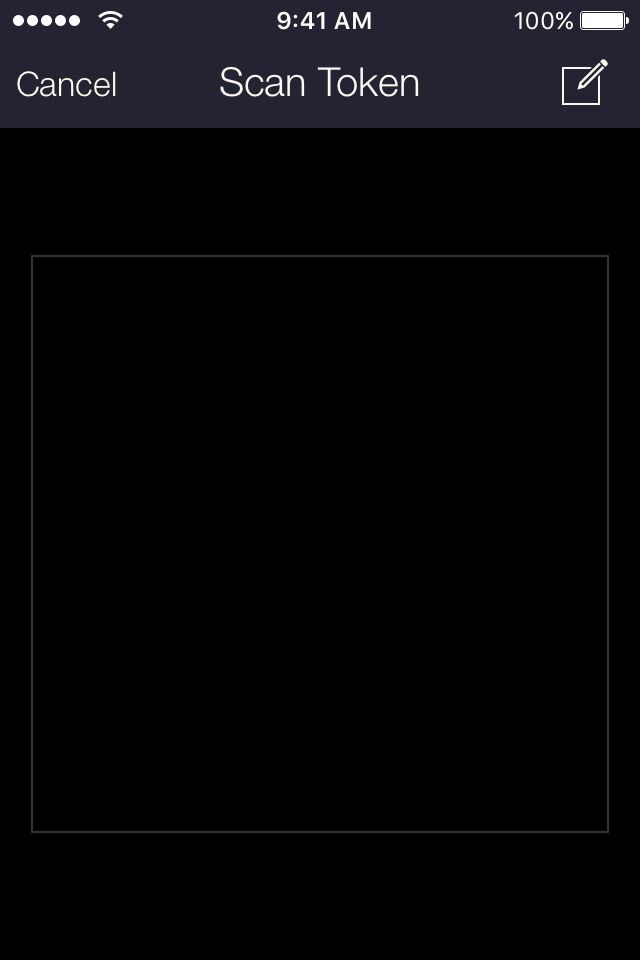
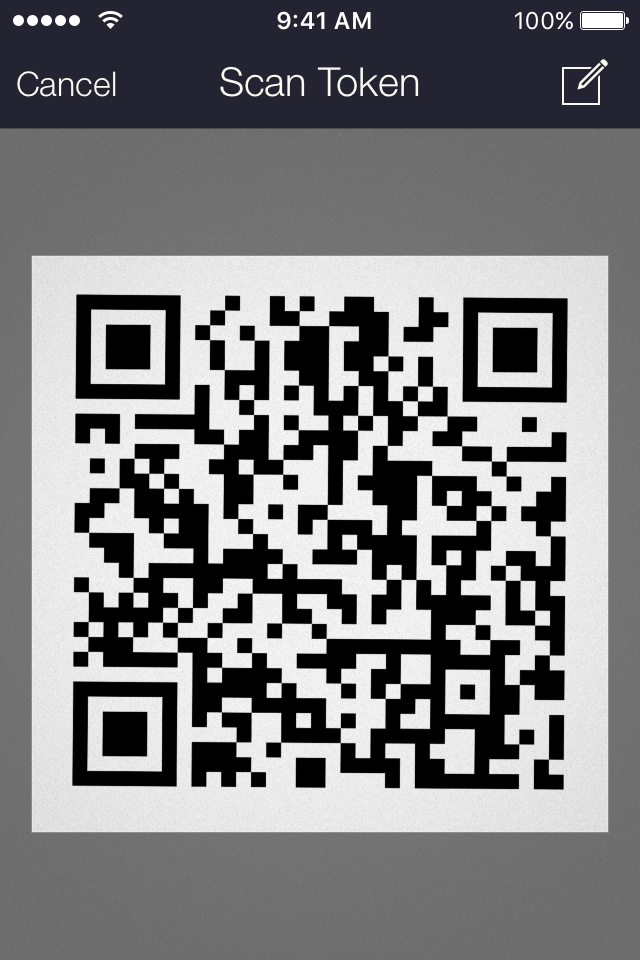
Fix token scanner screenshots

diff --git a/Authenticator/Source/TokenScannerViewController.swift b/Authenticator/Source/TokenScannerViewController.swift
@@ -69,7 +69,7 @@ class TokenScannerViewController: UIViewController, QRScannerDelegate {
         view.layer.addSublayer(videoLayer)
 
         if Process.isDemo {
-            let imageView = UIImageView(frame: view.bounds.offsetBy(dx: 0, dy: 15))
+            let imageView = UIImageView(frame: view.bounds)
             imageView.autoresizingMask = [.FlexibleWidth, .FlexibleHeight]
             imageView.contentMode = .ScaleAspectFill
             imageView.image = UIImage.demoScannerImage()

diff --git a/AuthenticatorScreenshots/AuthenticatorScreenshots.swift b/AuthenticatorScreenshots/AuthenticatorScreenshots.swift
@@ -38,6 +38,9 @@ class AuthenticatorScreenshots: XCTestCase {
 
         let app = XCUIApplication()
         setupSnapshot(app)
+        if let demoScannerImagePath = UserDefaults.standard.string(forKey: "demo-scanner-image") {
+            app.launchArguments += ["-demo-scanner-image", demoScannerImagePath]
+        }
         app.launch()
     }
 
